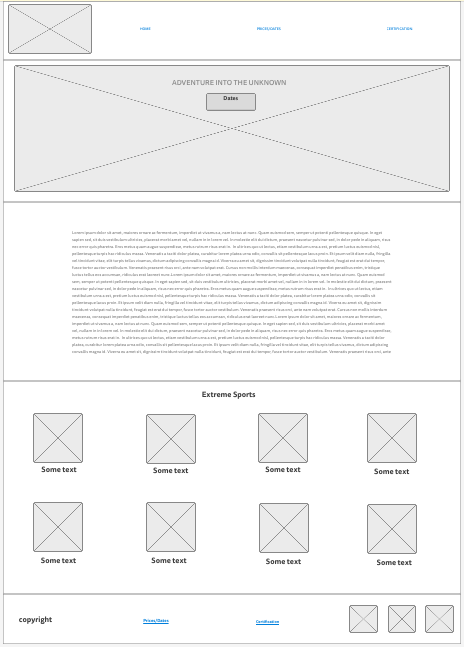
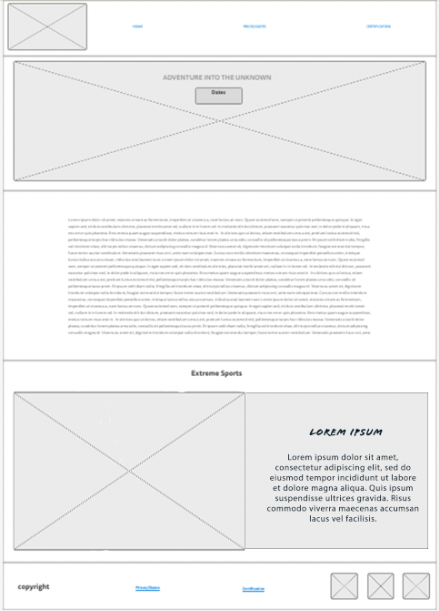
added css for aitu home page

diff --git a/aitu/styles/style.css b/aitu/styles/style.css
@@ -1,0 +1,142 @@
+@import url('https://fonts.googleapis.com/css2?family=Jost:wght@200&family=Shadows+Into+Light&family=Stick+No+Bills:wght@700&display=swap');
+#content {
+    max-width: 1600px;
+    margin: 0 auto;
+}
+header {
+    display: grid;
+    grid-template-columns: 1fr 5fr;
+    grid-template-rows: 1fr;
+}
+#logo_link {
+    grid-column: 1/2;
+}
+nav {
+    display: flex;
+    justify-content: space-around;
+    margin-top: 50px;
+    margin-bottom: 50px;
+} 
+nav a {
+    text-decoration: none;
+    color: #1C4D8C;
+    text-align: center;
+    padding: 35px;
+    font-family: "Shadows Into Light", Times, serif;
+    font-size: 1.5em;
+}
+nav a:hover {
+    color: #457324;
+    background-color: #96B9D9;
+}
+#hero {
+    display: grid;
+    grid-template-columns: 1fr 3fr 1fr;
+}
+#hero_box {
+    grid-column: 1/4;
+    grid-row: 1/3;
+    z-index: -1;
+}
+#hero_msg {
+    grid-column: 2/3;
+    grid-row: 1/2;
+    margin-top: 100px;
+}
+#hero_img {
+    width: 100%;
+}
+#hero_msg h1 {
+    text-align: center;
+}
+.home_title {
+    color: #FFFBC8;
+    font-family: "Stick No Bills", Tahoma, sans-serif;
+    font-size: 2.3em;
+    margin-top: 10px;
+}
+.button_box {
+    text-align: center;
+}
+.dates {
+    background-color: #1C4D8C;
+    color: #FFFBC8;
+    text-decoration: none;
+    font-size: 1.2em;
+    padding: 10px 20px;
+    border-radius: 5px;
+    font-family: "Shadows Into Light", Times, serif;
+}
+.dates:hover {
+    background-color: #FFFBC8;
+    color: #1C4D8C;
+}
+#description {
+    background-color: #FFFBC8;
+    color: #1C4D8C;
+    font-size: 1.7em;
+    margin: 0 auto;
+    padding: 7%;
+    font-family: 'Shadows Into Light', Times, serif;
+}
+.home-grid {
+    display: grid;
+    grid-template-columns: repeat(12, 1fr);
+    grid-template-rows: 1fr 4fr;
+}
+#extreme {
+    font-family: "Stick No Bills", Tahoma, sans-serif;
+    color: #1C4D8C;
+    font-size: 1.5em;
+    grid-column: 6/9;
+    grid-row: 1/2;
+}
+.mountains {
+    grid-column: 1/6;
+    grid-row: 2/3;
+}
+.msg {
+    background-color: #96B9D9;
+    grid-column: 7/13;
+    grid-row: 2/3;
+    color: #1C4D8C;
+    text-align: center;
+    font-family: "Shadows Into Light", Times, serif;
+    font-size: 1.4em;
+}
+.msg h2 {
+    font-family: "Stick No Bills", Tahoma, sans-serif;
+    font-size: 1.2em;
+    margin-top: 90px;
+}
+footer {
+    display: grid;
+    grid-template-columns: 3fr 1fr 3fr;
+}
+footer {
+    background-color: #457324;
+    color: #FFFBC8;
+    padding: 25px 50px;
+    margin-top: 200px;
+    display: flex;
+    justify-content: space-around;
+    align-items: center;
+    font-family: "Shadows Into Light", Times, serif;
+    margin-top: 30px;
+}
+footer p {
+    font-size: 1.2em;
+}
+footer p a:hover {
+    text-decoration: underline;
+}
+footer a {
+    color: #FFFBC8;
+    text-decoration: none;
+}
+footer a:hover {
+    color: #96B9D9;
+}
+footer .social img {
+    padding-top: 15px;
+}

diff --git a/aitu/index.html b/aitu/index.html
@@ -31,11 +31,11 @@
                 </div>
             </section>
         </div>
-        <div id="discription">
+        <div id="description">
             <p>Here we pride ourselves in giving people great trips they will remember for years to come. The groups are made for 10 people with guides and security. This will make sure you get the attention and care as we discover the beauty all round. We go away from tourist destinations and see places only locals know about. Make sure you being a camera with plenty memory as your experiences are sure to blow others away. We will be making are way through places hotels don’t exist but don’t fret we have cottages with all the amenities along the way providing great places to sleep and food to eat during your 3-week trip. Leaving the well-known trail requires some extreme sports to get to where we are going. Schedule you training meeting so we can make sure you are ready for the amazing trip you are going to have. We look forward to experiencing this trip with you so get ready and sign up.</p>
         </div>
         <main class="home-grid">
-            <section>
+            <section id="extreme">
                 <h1>Extreme Sports</h1>
             </section>
             <div id="background"></div>

diff --git a/aitu/styles/site-plan.css b/aitu/styles/site-plan.css
@@ -5,8 +5,8 @@ Fonts are separated by a | */
 
 :root {
   /* change the values below to your colors from your palette */
-  --primary-color: #1C4D8C   ;
-  --secondary-color: #96B9D9 ;
+  --primary-color: #1C4D8C;
+  --secondary-color: #96B9D9;
   --accent1-color: #457324;
   --accent2-color: #FFFBC8;
 
